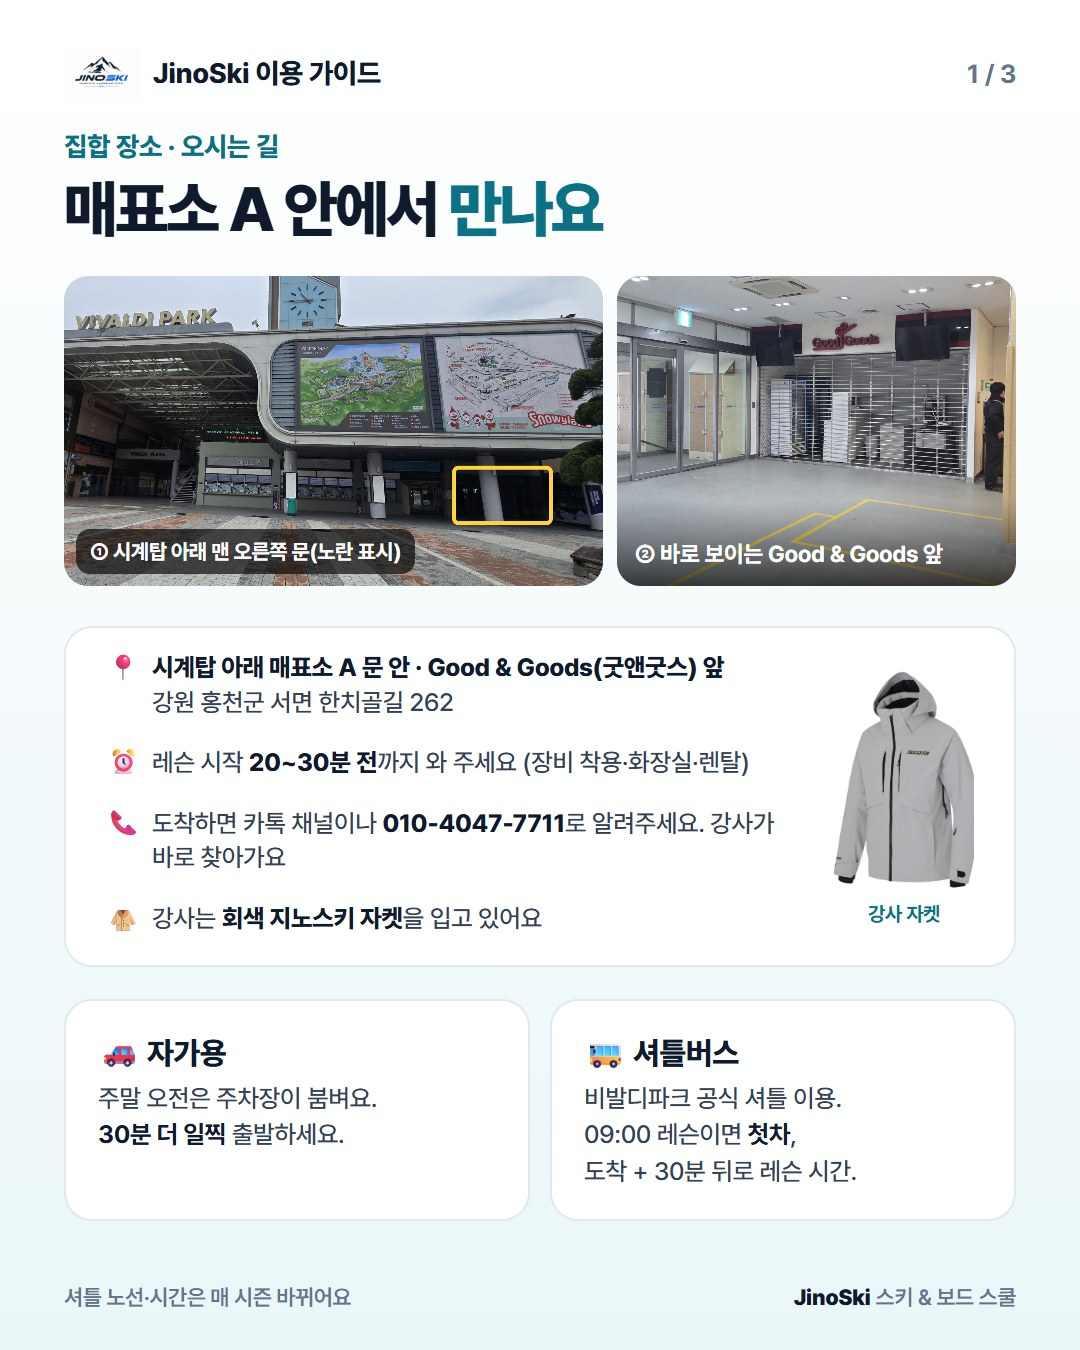
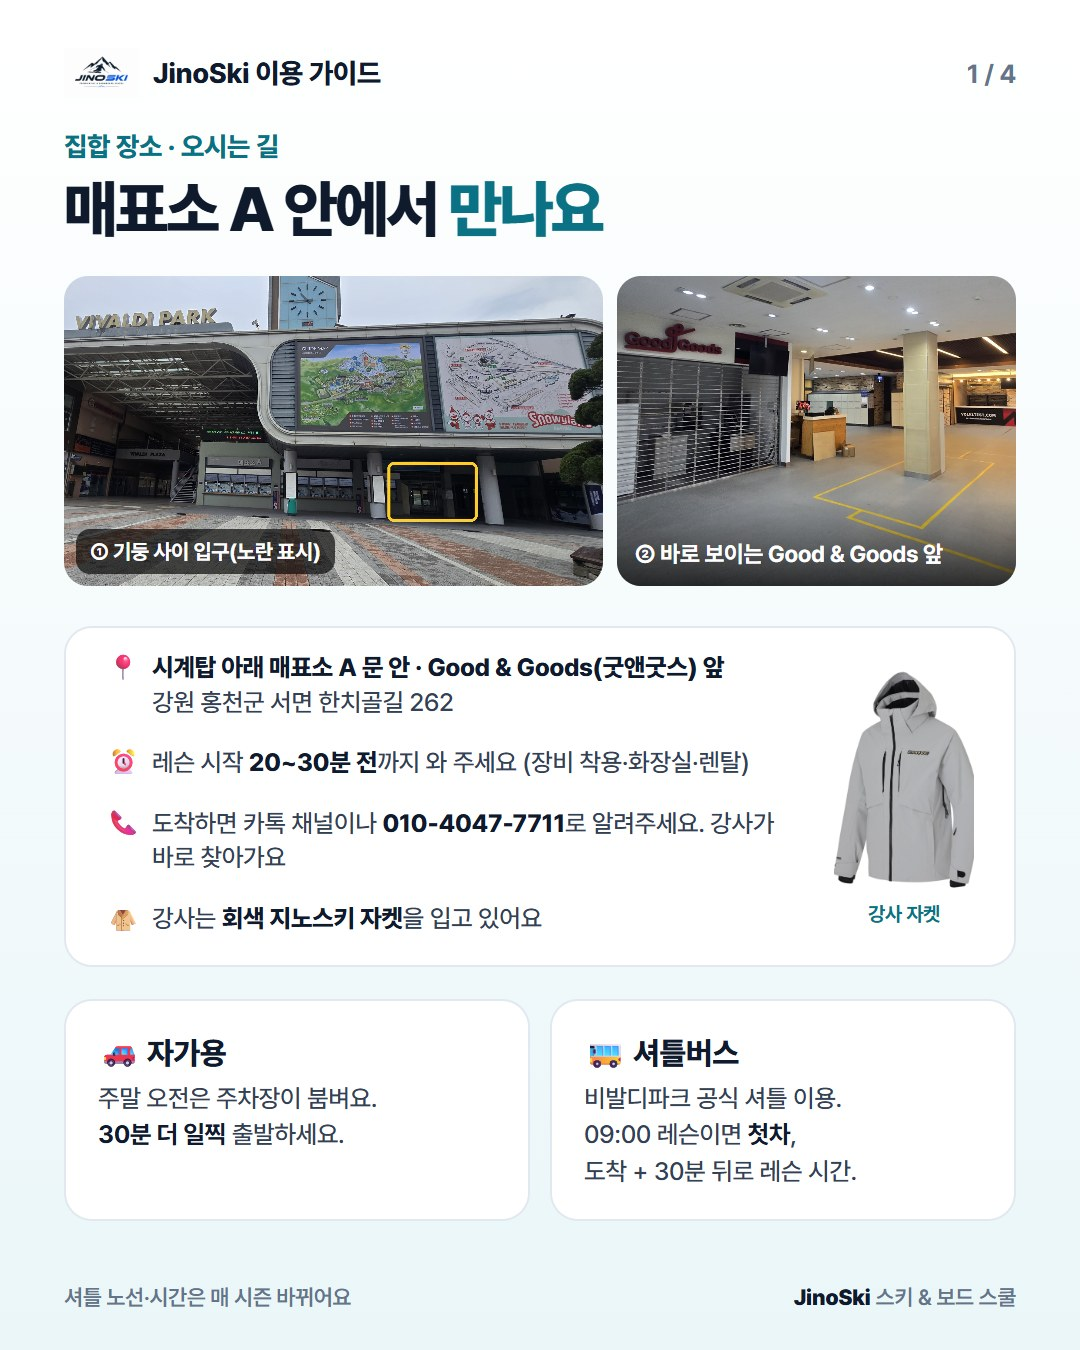
비발디 가이드: 강습별 만나는 곳 지도 카드 추가 · 집합 장소 카드 기둥 사이 입구 표시와 새 Good & Goods 사진

Changed region(s): [[0.55, 0.1867, 0.9472, 0.4356], [0.0917, 0.3422, 0.5194, 0.4356], [0.9167, 0.0311, 0.9472, 0.0622]]

diff --git a/src/components/shared/guide-cards.tsx b/src/components/shared/guide-cards.tsx
@@ -261,7 +261,8 @@ export const JUNIOR_CARDS: GuideCard[] = [
 ];
 
 export const VIVALDI_CARDS: GuideCard[] = [
-  { src: "/images/guide/vivaldi-1.jpg", alt: "지노스키 집합 장소 — 비발디파크 시계탑 아래 매표소 A 문 안 Good & Goods(굿앤굿스) 앞(강원 홍천군 서면 한치골길 262), 레슨 20~30분 전 도착, 도착하면 카톡이나 010-4047-7711로 연락. 사진: 비발디파크 정면 시계탑 아래 맨 오른쪽 문(노란 표시), 안에 들어가면 보이는 Good & Goods 가게. 강사는 회색 지노스키 자켓을 입고 있어요. 자가용·셔틀버스 오는 법" },
+  { src: "/images/guide/vivaldi-1.jpg", alt: "지노스키 집합 장소 — 비발디파크 시계탑 아래 매표소 A 문 안 Good & Goods(굿앤굿스) 앞(강원 홍천군 서면 한치골길 262), 레슨 20~30분 전 도착, 도착하면 카톡이나 010-4047-7711로 연락. 사진: 비발디파크 정면 시계탑 아래 두 기둥 사이 입구(노란 표시), 들어가면 바로 보이는 Good & Goods 가게. 강사는 회색 지노스키 자켓을 입고 있어요. 자가용·셔틀버스 오는 법" },
+  { src: "/images/guide/vivaldi-meet.jpg", alt: "강습별 만나는 곳 지도 — 기본은 ① 매표소 A 안 Good & Goods 앞. 카톡에 적힌 번호가 ②면 스타벅스 옆 곤돌라 쪽 끝 스키&스노보드 학교, ③이면 소노벨과 매표소 사이 중앙통로 에스컬레이터 앞(중상급 강습), ④면 매표소 아래쪽 블루스 슬로프 앞 건물 입구. 강사는 회색 지노스키 자켓, 못 찾으면 010-4047-7711" },
   { src: "/images/guide/vivaldi-2.jpg", alt: "패찰·리프트권·장비 렌탈 안내 — 패찰(강습 허가권) 1인 2시간 25,000원·3시간 35,000원·4시간 50,000원, 레슨 뒤 더 타려면 개인 리프트권 필요, 아이 장비는 키·몸무게 알려주기, 리프트·장비 지노스키 예약 시 40% 할인" },
   { src: "/images/guide/vivaldi-3.jpg", alt: "스키 강습 준비물 — 방수 스키복, 장갑, 고글, 넥워머, 여벌 양말, 간식·물, 휴대폰 방수팩. 산 위는 영하 10도 이하인 날이 많아 여러 겹 입기, 폭설·강풍으로 슬로프가 닫히면 변경 또는 전액 환불" },
 ];

diff --git a/src/app/[locale]/(marketing)/guide/page.tsx b/src/app/[locale]/(marketing)/guide/page.tsx
@@ -48,7 +48,7 @@ export default async function GuidePage({ params }: { params: Promise<{ locale: 
       {l === "ko" && (
         <ImageGuide
           title="비발디파크 이용 한눈에 보기"
-          desc="집합 장소·렌탈·준비물을 3장으로 정리했어요. 눌러서 크게 보세요."
+          desc="집합 장소·만나는 곳 지도·렌탈·준비물을 4장으로 정리했어요. 눌러서 크게 보세요."
           cards={VIVALDI_CARDS}
           event="vivaldi_guide_card_open"
           className="bg-white py-14 sm:py-20"
